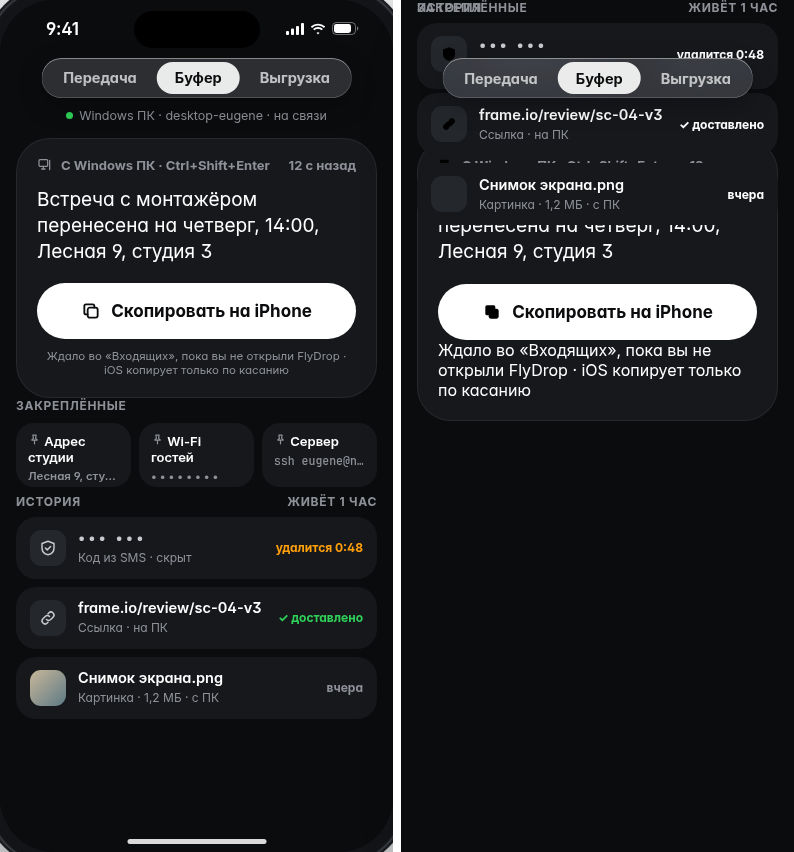
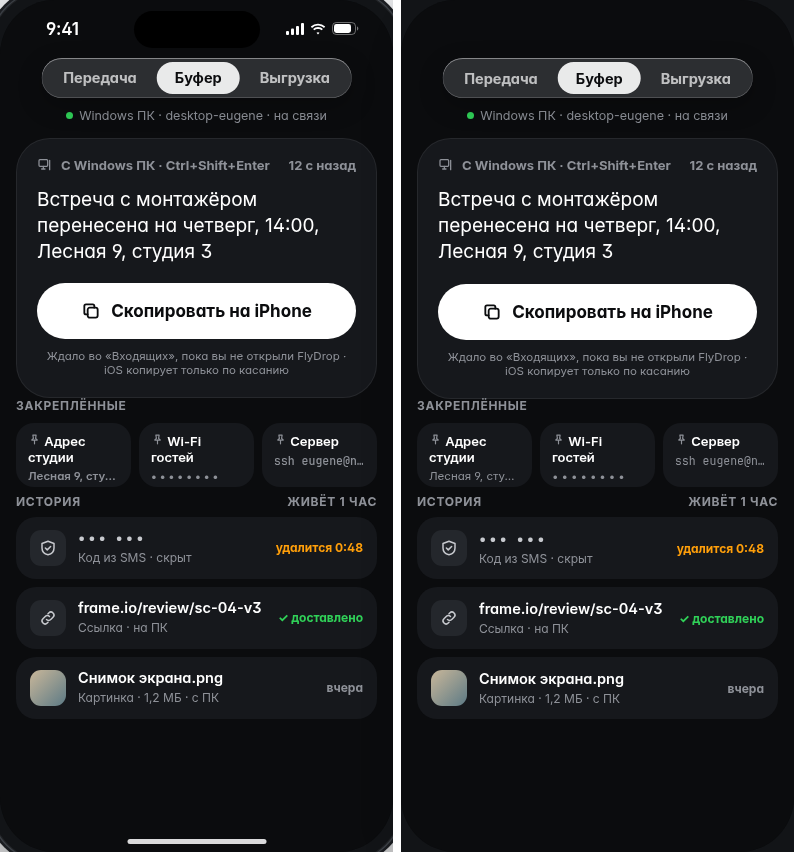
Подогнать кадры iPhone и Windows к макетам Лизы
Строки style из макета снова применяются из скрипта: страница их блокирует. Подпись у нижней кнопки больше не раздувает строку, а трей и тост в кадрах w1 и w3 стоят поверх окна так же, как на листе.

diff --git a/public/modes.css b/public/modes.css
@@ -49,7 +49,7 @@
 .scr .sc i{font-style:normal;display:inline-block;padding:1px 8px;border-radius:7px;background:#24272c;color:#fff;font-weight:600;margin-right:4px}
 .scr .botb{position:absolute;left:16px;right:16px;bottom:max(34px,env(safe-area-inset-bottom,0px))}
 .scr .botb .btn{margin:0}
-.scr .botb small{display:block;text-align:center;font-size:12px;color:#8e9198;margin-top:10px;line-height:1.4}
+.scr .botb small{display:block;text-align:center;font-size:12px;color:#8e9198;margin-top:10px}
 .scr .banner{position:absolute;left:16px;right:16px;top:138px;height:64px;border-radius:22px;background:rgba(255,159,10,.12);border:1px solid rgba(255,159,10,.35);display:flex;align-items:center;gap:12px;padding:0 16px;color:#ff9f0a;font-size:14px;font-weight:650}
 .scr .banner small{display:block;color:#c7a46a;font-weight:500;font-size:12px;margin-top:2px}
 .scr .qbig{position:absolute;left:16px;right:16px;top:216px;border-radius:30px;background:#16181c;padding:18px 20px}
@@ -125,9 +125,17 @@
 .mac .mbar .r{margin-left:auto;display:flex;gap:14px;align-items:center}
 .mac .mmenu{position:absolute;right:120px;top:32px;width:320px;border-radius:14px;padding:14px;color:#fff;background:rgba(40,42,46,.6);backdrop-filter:blur(30px) saturate(1.6);border:1px solid rgba(255,255,255,.14);box-shadow:0 20px 50px rgba(0,0,0,.5)}
 
-body.fd-shot{margin:0;background:#0b0c0e}
+body.fd-shot{margin:0;background:#121417;font-synthesis:weight style small-caps}
 body.fd-shot .shell,body.fd-shot #toast,body.fd-shot dialog,body.fd-shot .winbar{display:none!important}
-body.fd-shot .shot-root{margin:0}
+body.fd-shot .shot-root{position:relative;margin:0;font-synthesis:weight style small-caps}
+body.fd-shot .scr{border-radius:55px;font-family:Inter,"SF Pro Display",system-ui,sans-serif;font-synthesis:weight style small-caps}
+body.fd-shot .scr .seg{top:58px}
+body.fd-shot .scr .botb{bottom:34px}
+body.fd-shot .scr .btn{width:auto;padding:0;border:0}
+body.fd-shot .win,body.fd-shot .fly,body.fd-shot .toast{font-family:"Segoe UI Variable","Segoe UI",Inter,sans-serif;font-synthesis:weight style small-caps}
+body.fd-shot .shot-overlay{position:absolute;z-index:6;margin:0}
+body.fd-shot .shot-overlay.fly{left:788px;bottom:-32px;width:340px}
+body.fd-shot .shot-overlay.toast{left:768px;bottom:-32px;width:360px}
 
 body.phone-ui{background:#0b0c0e}
 body.phone-ui .rail,body.phone-ui .topbar,body.phone-ui .site-footer,body.phone-ui .winbar{display:none}

diff --git a/public/modes.js b/public/modes.js
@@ -128,7 +128,31 @@ export function startModes({ api, toast, desktop, showView }) {
     const root = node('div', 'shot-root');
     const markup = SHOTS[shot];
     if (!markup) root.textContent = 'Нет такого кадра';
-    else root.innerHTML = markup;
+    else {
+      root.innerHTML = markup;
+      const overlayShot = shot === 'w1' ? 'w1fly' : shot === 'w3' ? 'w3toast' : '';
+      if (overlayShot && SHOTS[overlayShot]) {
+        const holder = document.createElement('div');
+        holder.innerHTML = SHOTS[overlayShot];
+        const overlay = holder.firstElementChild;
+        if (overlay) {
+          overlay.classList.add('shot-overlay');
+          root.append(overlay);
+        }
+      }
+      for (const element of root.querySelectorAll('[style]')) {
+        const text = element.getAttribute('style');
+        if (text) element.style.cssText = text;
+      }
+      for (const element of root.querySelectorAll('svg, svg *')) {
+        for (const property of ['width', 'height', 'fill', 'stroke', 'stroke-width', 'stroke-linecap', 'stroke-linejoin']) {
+          const value = element.getAttribute(property);
+          if (!value) continue;
+          const css = (property === 'width' || property === 'height' || property === 'stroke-width') && /^\d+(\.\d+)?$/.test(value) ? `${value}px` : value;
+          element.style.setProperty(property, css);
+        }
+      }
+    }
     document.body.append(root);
     const loading = document.getElementById('loading');
     if (loading) loading.hidden = true;
